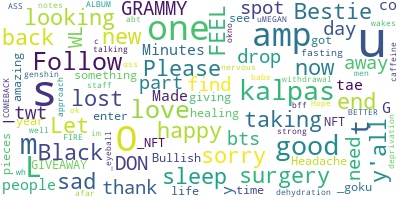
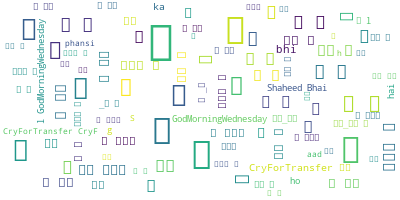
6 apr

diff --git a/templates/index.html b/templates/index.html
@@ -37,7 +37,7 @@
     SYLLABLE PER WORD	- {{scw}}<br>
     PERSONAL PRONOUNS	- {{pronouns}}<br>
     AVG WORD LENGTH     - {{awl}}<br>
-<img src="{{ loc }}" alt="Word Cloud">
+    <image src='{{url_for('static', filename='wordcloud.png')}}'>
 {% endif %}
 </body>
 </html>

diff --git a/routes.py b/routes.py
@@ -5,8 +5,6 @@ from textblob import TextBlob
 from wordcloud import WordCloud
 import pandas as pd
 import re
-import matplotlib.pyplot as plt
-plt.style.use('fivethirtyeight')
 import os
 import forms
 import nltk
@@ -28,9 +26,13 @@ def index():
     
     # print("Submitted title 1 ",form.hashtag.data)
     if form.validate_on_submit():
-        def stopwordss(wordscopy):
+        
+        def removes(wordscopy):
+            stopwords_hi = ['तुम','मेरी','मुझे','क्योंकि','हम','प्रति','अबकी','आगे','माननीय','शहर','बताएं','कौनसी','क्लिक','किसकी','बड़े','मैं','and','रही','आज','लें','आपके','मिलकर','सब','मेरे','जी','श्री','वैसा','आपका','अंदर', 'अत', 'अपना', 'अपनी', 'अपने', 'अभी', 'आदि', 'आप', 'इत्यादि', 'इन', 'इनका', 'इन्हीं', 'इन्हें', 'इन्हों', 'इस', 'इसका', 'इसकी', 'इसके', 'इसमें', 'इसी', 'इसे', 'उन', 'उनका', 'उनकी', 'उनके', 'उनको', 'उन्हीं', 'उन्हें', 'उन्हों', 'उस', 'उसके', 'उसी', 'उसे', 'एक', 'एवं', 'एस', 'ऐसे', 'और', 'कई', 'कर','करता', 'करते', 'करना', 'करने', 'करें', 'कहते', 'कहा', 'का', 'काफ़ी', 'कि', 'कितना', 'किन्हें', 'किन्हों', 'किया', 'किर', 'किस', 'किसी', 'किसे', 'की', 'कुछ', 'कुल', 'के', 'को', 'कोई', 'कौन', 'कौनसा', 'गया', 'घर', 'जब', 'जहाँ', 'जा', 'जितना', 'जिन', 'जिन्हें', 'जिन्हों', 'जिस', 'जिसे', 'जीधर', 'जैसा', 'जैसे', 'जो', 'तक', 'तब', 'तरह', 'तिन', 'तिन्हें', 'तिन्हों', 'तिस', 'तिसे', 'तो', 'था', 'थी', 'थे', 'दबारा', 'दिया', 'दुसरा', 'दूसरे', 'दो', 'द्वारा', 'न', 'नहीं', 'ना', 'निहायत', 'नीचे', 'ने', 'पर', 'पर', 'पहले', 'पूरा', 'पे', 'फिर', 'बनी', 'बही', 'बहुत', 'बाद', 'बाला', 'बिलकुल', 'भी', 'भीतर', 'मगर', 'मानो', 'मे', 'में', 'यदि', 'यह', 'यहाँ', 'यही', 'या', 'यिह', 'ये', 'रखें', 'रहा', 'रहे', 'ऱ्वासा', 'लिए', 'लिये', 'लेकिन', 'व', 'वर्ग', 'वह', 'वह', 'वहाँ', 'वहीं', 'वाले', 'वुह', 'वे', 'वग़ैरह', 'संग', 'सकता', 'सकते', 'सबसे', 'सभी', 'साथ', 'साबुत', 'साभ', 'सारा', 'से', 'सो', 'ही', 'हुआ', 'हुई', 'हुए', 'है', 'हैं', 'हो', 'होता', 'होती', 'होते', 'होना', 'होने', 'अपनि', 'जेसे', 'होति', 'सभि', 'तिंहों', 'इंहों', 'दवारा', 'इसि', 'किंहें', 'थि', 'उंहों', 'ओर', 'जिंहें', 'वहिं', 'अभि', 'बनि', 'हि', 'उंहिं', 'उंहें', 'हें', 'वगेरह', 'एसे', 'रवासा', 'कोन', 'निचे', 'काफि', 'उसि', 'पुरा', 'भितर', 'हे', 'बहि', 'वहां', 'कोइ', 'यहां', 'जिंहों', 'तिंहें', 'किसि', 'कइ', 'यहि', 'इंहिं', 'जिधर', 'इंहें', 'अदि', 'इतयादि', 'हुइ', 'कोनसा', 'इसकि', 'दुसरे', 'जहां', 'अप', 'किंहों', 'उनकि', 'भि', 'वरग', 'हुअ', 'जेसा', 'नहिं']
+            stopwords_en = ['i', 'me', 'my', 'myself', 'we', 'our', 'ours', 'ourselves', 'you', "you're", "you've", "you'll", "you'd", 'your', 'yours', 'yourself', 'yourselves', 'he', 'him', 'his', 'himself', 'she', "she's", 'her', 'hers', 'herself', 'it', "it's", 'its', 'itself', 'they', 'them', 'their', 'theirs', 'themselves', 'what', 'which', 'who', 'whom', 'this', 'that', "that'll", 'these', 'those', 'am', 'is', 'are', 'was', 'were', 'be', 'been', 'being', 'have', 'has', 'had', 'having', 'do', 'does', 'did', 'doing', 'a', 'an', 'the', 'and', 'but', 'if', 'or', 'because', 'as', 'until', 'while', 'of', 'at', 'by', 'for', 'with', 'about', 'against', 'between', 'into', 'through', 'during', 'before', 'after', 'above', 'below', 'to', 'from', 'up', 'down', 'in', 'out', 'on', 'off', 'over', 'under', 'again', 'further', 'then', 'once', 'here', 'there', 'when', 'where', 'why', 'how', 'all', 'any', 'both', 'each', 'few', 'more', 'most', 'other', 'some', 'such', 'no', 'nor', 'not', 'only', 'own', 'same', 'so', 'than', 'too', 'very', 's', 't', 'can', 'will', 'just', 'don', "don't", 'should', "should've", 'now', 'd', 'll', 'm', 'o', 're', 've', 'y', 'ain', 'aren', "aren't", 'couldn', "couldn't", 'didn', "didn't", 'doesn', "doesn't", 'hadn', "hadn't", 'hasn', "hasn't", 'haven', "haven't", 'isn', "isn't", 'ma', 'mightn', "mightn't", 'mustn', "mustn't", 'needn', "needn't", 'shan', "shan't", 'shouldn', "shouldn't", 'wasn', "wasn't", 'weren', "weren't", 'won', "won't", 'wouldn', "wouldn't"]
+            to_be_removed = stopwords_hi + stopwords_en
             for x in wordscopy:
-                return [x for x in wordscopy if x not in stopwords.words('english')]
+                return [x for x in wordscopy if x not in to_be_removed]
 
         full_filename = os.path.join(app.config['UPLOAD_FOLDER'], 'wordcloud.png')
         auth = tweepy.OAuthHandler(ckey, cskey)
@@ -48,6 +50,15 @@ def index():
         text = re.sub(r'#', '',text)    #remove the '#' symbol
         text = re.sub(r'RT[\s]','',text)    #remove RT
         text = re.sub(r'https?:\/\/\S+','',text)    #remove link
+        emoji_pattern = re.compile("["
+                           u"\U0001F600-\U0001F64F"  # emoticons
+                           u"\U0001F300-\U0001F5FF"  # symbols & pictographs
+                           u"\U0001F680-\U0001F6FF"  # transport & map symbols
+                           u"\U0001F1E0-\U0001F1FF"  # flags (iOS)
+                           u"\U00002702-\U000027B0"
+                           u"\U000024C2-\U0001F251"
+                           "]+", flags=re.UNICODE)
+        text = emoji_pattern.sub(r'', string=text)
         
         wordcloud = WordCloud(max_font_size=50, max_words=100, background_color="white").generate(text)
 
@@ -69,8 +80,13 @@ def index():
         words = text.split(" ")
         tnw = 0
         wordscopy = words
-
-        wordscopy = stopwordss(wordscopy)
+        text = removes(text)
+        # if form.lng.data == 'en':
+        #     for x in wordscopy:
+        #         return [x for x in wordscopy if x not in stopwords.words('english')]
+        # if form.lng.data == 'hi':
+        #     for x in wordscopy:
+        #         return [x for x in wordscopy if x not in stopwords.indian.words('hindi.pos')]
 
         punctuations = '''!()-[]{};:'"\,<>./?@#$%^&*_~'''
 
